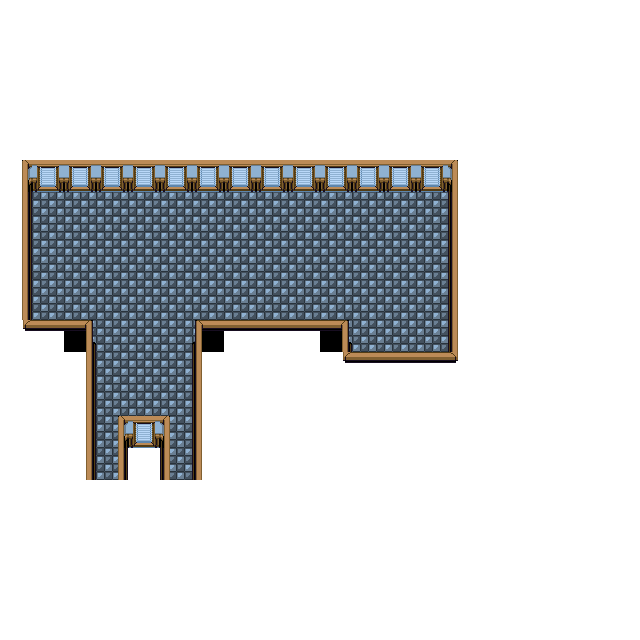
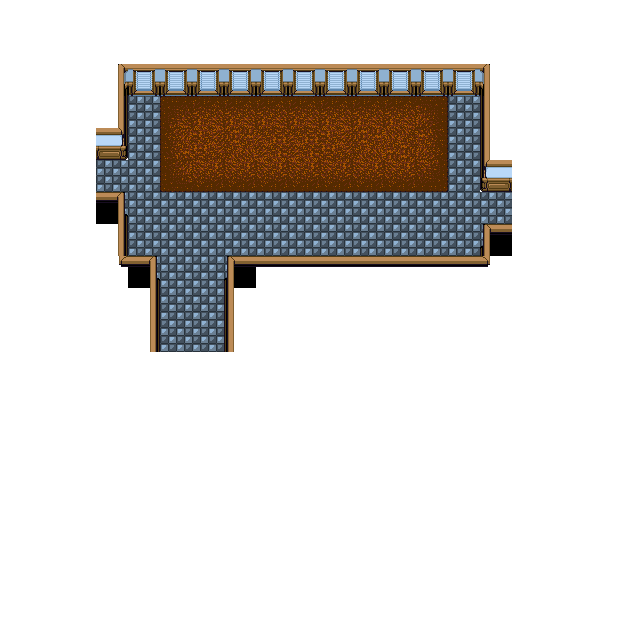
added rug and upper corner textures, added shadow to player

Changed region(s): [[0.0312, 0.0938, 0.8125, 0.75]]

diff --git a/src/scenes/LibraryScene.js b/src/scenes/LibraryScene.js
@@ -1,3 +1,5 @@
+import Player from '../sprites/Player.js';
+
 export default class LibraryScene extends Phaser.Scene {
   constructor() {
     super({
@@ -5,35 +7,28 @@ export default class LibraryScene extends Phaser.Scene {
     });
     this.background;
     this.cooper;
-    this.cursors;
+    this.cooperShadow;
+
   }
 
   preload() {
-
+    //TODO -add shadows on cooper(sprite attached to characters).
+    //     -add moving animations .
+    //     -add furniture, bookshelves and plants.
+    //     -set up touch movement and grid.
   }
 
   create() {
-    this.background = this.add.image(20, -220, 'background')
+    this.background = this.add.image(20, 0, 'background')
       .setOrigin(0);
-    this.cooper = this.physics.add.sprite(164, 148, 'cooper');
-    console.log(this.scene.scene);
-    this.scene.scene.cameras.main.startFollow(this.cooper).setZoom(2.5)
 
-    this.cursors = this.input.keyboard.createCursorKeys();
+    this.cooper = new Player(this, 164, 140, 'cooper')
+    this.scene.scene.cameras.main.startFollow(this.cooper).setZoom(2)
+
   }
 
   update() {
-    if(this.cursors.left.isDown) {
-      this.cooper.setVelocityX(-160);
-    } else if(this.cursors.right.isDown) {
-      this.cooper.setVelocityX(160);
-    } else if(this.cursors.up.isDown) {
-      this.cooper.setVelocityY(-160);
-    } else if(this.cursors.down.isDown) {
-      this.cooper.setVelocityY(160);
-    } else {
-      this.cooper.setVelocity(0);
-    }
+    this.cooper.update();
   }
 
 

diff --git a/src/sprites/Player.js b/src/sprites/Player.js
@@ -1,0 +1,36 @@
+export default class Player extends Phaser.Physics.Arcade.Sprite {
+  constructor(scene, x, y, texture) {
+    super(scene, x, y, texture);
+    this.x = x;
+    this.y = y;
+
+    this.shadow = scene.add.sprite(this.x, this.y, 'shadow')
+      .setAlpha(.7);
+
+    this.setTexture(texture);
+
+    scene.add.existing(this);
+    scene.physics.add.existing(this);
+
+    this.cursors;
+    this.cursors = scene.input.keyboard.createCursorKeys();
+
+  }
+
+  update() {
+
+    if(this.cursors.left.isDown) {
+      this.setVelocityX(-160);
+    } else if(this.cursors.right.isDown) {
+      this.setVelocityX(160);
+    } else if(this.cursors.up.isDown) {
+      this.setVelocityY(-160);
+    } else if(this.cursors.down.isDown) {
+      this.setVelocityY(160);
+    } else {
+      this.setVelocity(0);
+    }
+    this.shadow.setPosition(this.x, this.y)
+
+  }
+}

diff --git a/src/scenes/BootScene.js b/src/scenes/BootScene.js
@@ -9,6 +9,7 @@ export default class BootScene extends Phaser.Scene {
   preload() {
     this.load.image('background', '../assets/library_map.png');
     this.load.image('cooper', '../assets/Cooper.png');
+    this.load.image('shadow', '../assets/shadow_01.png');
   }
 
   create() {
